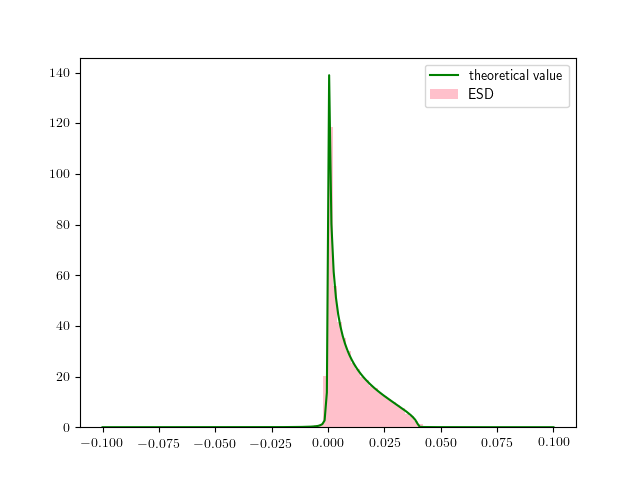
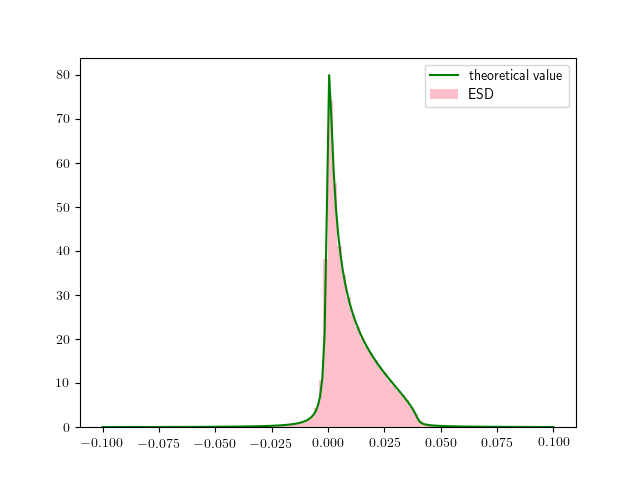
testing readme

diff --git a/demo_plots.py b/demo_plots.py
@@ -1,13 +1,5 @@
 import numpy as np
-import scipy as sp
-
-from scipy import stats
 from matrix_util import *
-from random_matrices import *
-import matplotlib.pyplot as plt
-from timer import Timer
-
-
 from demo_cauchy import *
 
 num_shot = 200
@@ -22,12 +14,12 @@ A = rectangular_diag(diag_A,p_dim, dim)
 
 scale = 1e-1
 plot_density(A, sigma,scale, min_x, max_x, \
-num_shot=num_shot,jobname="40by240")
+num_shot=num_shot,jobname="240by40")
 
 
 dim = 64
 p_dim = dim
-scale = 1e-4
+scale = 1e-3
 sigma = 0.1
 min_x = -0.1
 max_x = 0.1
@@ -41,9 +33,9 @@ num_shot=num_shot,jobname="MP")
 
 dim = 64
 p_dim = dim
-scale = 1e-4
+scale = 1e-3
 sigma = 0.1
-min_x = -1
+min_x = 0
 max_x = 2
 diag_A = np.ones(dim)
 A = rectangular_diag(diag_A,p_dim, dim)
@@ -55,7 +47,7 @@ num_shot=num_shot,jobname="identity")
 
 dim = 64
 p_dim = dim
-scale = 1e-4
+scale = 1e-3
 sigma = 0.1
 min_x = -0.1
 max_x = 0.5
@@ -73,7 +65,7 @@ num_shot=num_shot,jobname="2-5")
 
 dim = 64
 p_dim = dim
-scale = 1e-4
+scale = 1e-3
 sigma = 0.1
 min_x = -0.25
 max_x = 1

diff --git a/demo_cauchy.py b/demo_cauchy.py
@@ -16,7 +16,7 @@ from fde_sc_c2 import SemiCircular as SC ###for rectanglar
 
 
 
-def plot_density(A, sigma, scale=1e-9, min_x=-10, max_x=100, num_pt=200,\
+def plot_density(A, sigma, scale=1e-2, min_x=-10, max_x=100, num_pt=200,\
  dim_cauchy_vec=10, num_shot=0,\
  jobname="ESD_and_density"):
 

diff --git a/README.md b/README.md
@@ -5,12 +5,12 @@ This is a simple tool to compute the probability densities of eigenvalue distrib
 
 ## Description
 We consider an information plus noise random matrices as follows:
-for a given N x N matrix A and a real number v > 0, define a random matrix
+for a given p x d matrix A and a real number \sigma > 0, define a random matrix
 
-####    Y = A + vZ,
+####    W = (A + \sigma Z)^T (A +  \sigma Z),
 
-where Z is a (real or complex) Ginibre random matrix (i.e. whose entries are i.i.d. and distributed with N(0, sqrt(1/N)) ).
-If the size N is large enough, eigenvalue distribution of Y^* Y can be approximated by  deterministic probability distribution on positive real line.
+where Z is a p x d (real or complex) Ginibre random matrix (i.e. whose entries are i.i.d. and distributed with N(0, sqrt(1/d)) ).
+If the size N is large enough, eigenvalue distribution of W can be approximated by  deterministic probability distribution on positive real line.
 This tool computes the probability density function of the deterministic eigenvalue distribution.
 
 
@@ -20,26 +20,36 @@ Matrix Equation with Positivity Constraints (J. William Helton, Reza Rashidi Far
 
 
 ## DEMO
-* N=64, A = 0, v = 1 (Marchenko-Pastur type):
-![MP](https://github.com/ThayaFluss/fde-ipn/blob/master/images/MP.png)
+* p=240,d=40, A = rectangular_diag(0,0.1,0.2, ..., 3.9), v = 0.1:
+![MP](https://github.com/ThayaFluss/fde-ipn/blob/master/images/plot_density/240by40.png)
 
-* N=64, A = 1, v = 0.1:
-![identity](https://github.com/ThayaFluss/fde-ipn/blob/master/images/identity.png)
 
-* N=64, A = diag(2,2..., 5, 5,...) (32 of 2 and 32 5), v = 1:
-![2-5](https://github.com/ThayaFluss/fde-ipn/blob/master/images/2-5.png)
+* p=d=64, A = 0, v = 0.1 (Marchenko-Pastur type):
+![MP](https://github.com/ThayaFluss/fde-ipn/blob/master/images/plot_density/MP.png)
 
-* N=64, A = diag(1,2,3, ..., 64)/8, v = 0.1:
-![64](https://github.com/ThayaFluss/fde-ipn/blob/master/images/64.png)
+* p=d=64, A = 1, v = 0.1:
+![identity](https://github.com/ThayaFluss/fde-ipn/blob/master/images/plot_density/identity.png)
+
+* p=d=64, A = diag(0.2,0.2..., 0.5, 0.5,...) (32 of 0.2 and 32 0.5), v = 0.1:
+![2-5](https://github.com/ThayaFluss/fde-ipn/blob/master/images/plot_density/2-5.png)
+
+* p=d=64, A = diag(1,2,3, ..., 64)/80, v = 0.1:
+![64](https://github.com/ThayaFluss/fde-ipn/blob/master/images/plot_density/64.png)
 
 ## Requirement
-python 2 or 3, numpy, scipy, matplotlib. We recommend [Anaconda](https://www.continuum.io/downloads).
+python 3, numpy, scipy, matplotlib. We recommend [Anaconda](https://www.continuum.io/downloads).
 
 ## Installation
 
 ```bash
 $ git clone https://github.com/ThayaFluss/fde-ipn.git
 ```
+## Unit test
+```bash
+$ cd fde-ipn
+$ python -m unittest tests/*.py
+```
+
 
 ## Usage
 ```bash
@@ -48,48 +58,31 @@ $ ipython
 ```
 ```python
 import numpy as np
-from cauchy import SemiCircular
-sc = SemiCircular()
+from matrix_util import *
+from demo_cauchy import *
+dim = 64
+p_dim = dim
+scale = 1e-3
+sigma = 0.1
+min_x = -0.1
+max_x = 0.5
+a = 5*np.ones(dim)
+half = int(dim/2)
+for i in range(half):
+    a[i] =  2
+diag_A = a/10
+A = rectangular_diag(diag_A,p_dim, dim)
+num_shot = 200 ### The number of sample matrices. If we set num_shot=0, only density is plotted.
+plot_density(A, sigma,scale, min_x, max_x, \
+num_shot=num_shot,jobname="2-5")  
 ```
 
-* A useful function to comparing  the probability density and the emprical eigenvalue distirbution :
-```python
-A = np.identity(64) ## Modify here
-variance = 0.1      ## as you want
-sc.plot_density_info_plus_noise(A, variance)
-```
-Then we get a figure such as demo.
 
-* If you need a value of the density at x:
-```python
-x = 1.1             ## Modify
-A = np.identity(64) ## here
-variance = 0.1      ## as you want
-sc.square_density(x,A, variance)
+To plot all figures in this README, try
+```bash
+$ cd fde-ipn
+$ python demo_plots.py
 ```
-We get the result such as
-```python
-out: array([ 2.0288012])
-```
-* To get the probability density on an interval:
-```python
-x = np.linspace(0.01, 40, 201) ## Modify
-a = np.zeros(64)
-for i in range(32):
-  a[i] = 2
-  a[i+32]=5
-A = np.diag(a)           ## here
-variance = 1                ## as you want
-y = sc.square_density(x,A, variance)
-```
-To plot the result y:
-```python
-import matplotlib.pylab as plt
-plt.plot(x,y)
-plt.show()
-```
-
-![2-5_pdf](https://github.com/ThayaFluss/fde-ipn/blob/master/images/2-5_pdf.png)
 
 
 ## License
